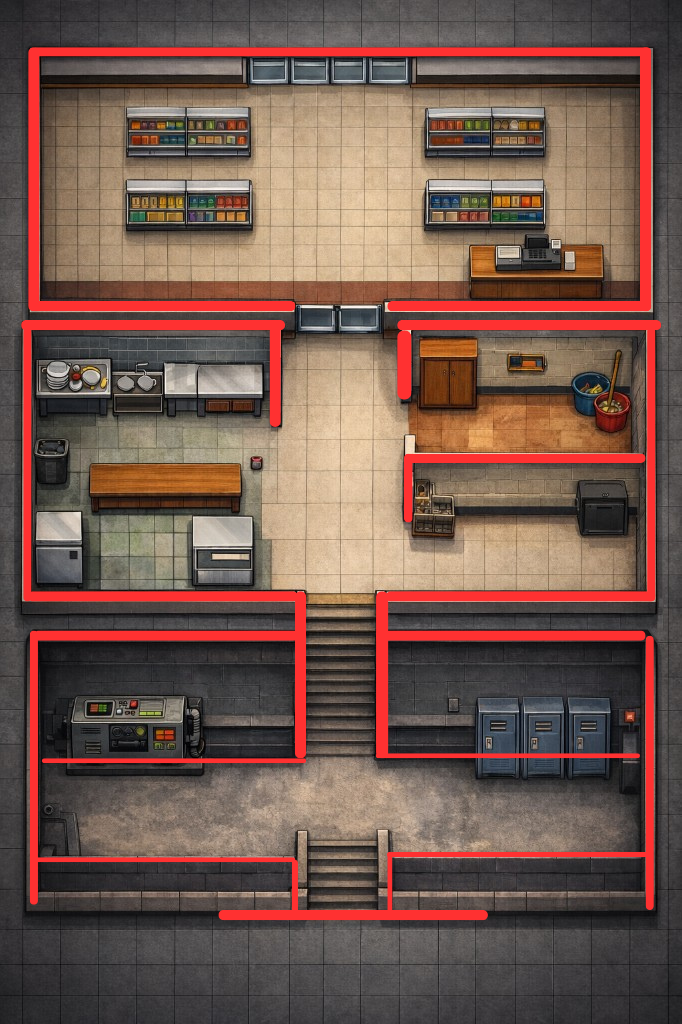
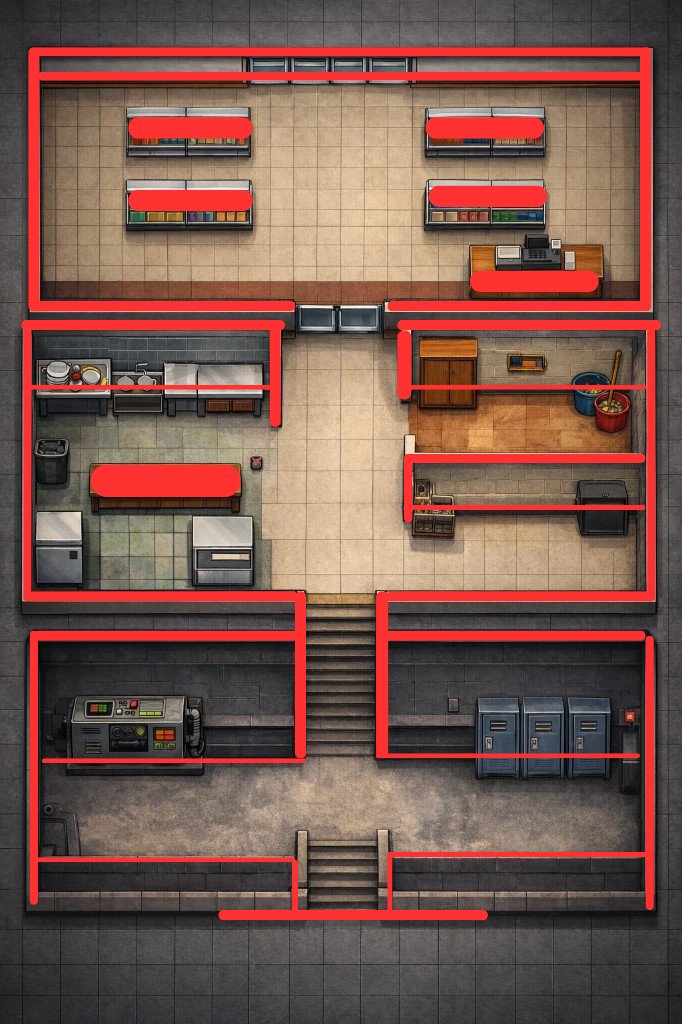
Align task interactions with mask-driven zones and improve map readability.
Add color-based task mask loading, centralize and enlarge interactable labels, increase player speed, and update collision/task mask assets for in-game alignment.

Made-with: Cursor

diff --git a/src/map.c b/src/map.c
@@ -30,6 +30,12 @@
 
 /* Design-time coordinates × WORLD_SCALE — keeps geometry in sync with WORLD_WIDTH/HEIGHT. */
 #define M(x) ((float)(x) * WORLD_SCALE)
+/* Reference image pixels (Badge_Clock_out...png / map_blueprint dimensions). */
+#define REF_IMG_W 682.0f
+#define REF_IMG_H 1024.0f
+#define RX(x) (((float)(x) / REF_IMG_W) * WORLD_WIDTH)
+#define RY(y) (((float)(y) / REF_IMG_H) * WORLD_HEIGHT)
+#define RR(x, y, w, h) (Rectangle){ RX(x), RY(y), RX(x + (w)) - RX(x), RY(y + (h)) - RY(y) }
 
 /* Static obstacle rectangles — shared by BuildGeometry (walls) and procedural drawing. */
 static const Rectangle OB_SHELF_NW   = { M(200), M(200), M(350), M(280) };
@@ -63,9 +69,150 @@ static const Rectangle OB_FLOOR_RIGHT_BACK_OUTLINE = { M(1400), M(1200), M(800),
 static void BuildGeometry(Map *map);
 static void BuildInteractables(Map *map);
 static void BuildNpcs(Map *map);
+static void Map_LoadTaskZonesFromMask(Map *map);
 
 static bool IsRedMaskColor(Color c) {
     return (c.r > 200 && c.g < 90 && c.b < 90);
+}
+
+static bool IsNearColor(Color c, Color t, int tol) {
+    return abs((int)c.r - (int)t.r) <= tol
+        && abs((int)c.g - (int)t.g) <= tol
+        && abs((int)c.b - (int)t.b) <= tol;
+}
+
+static Interactable *FindInteractableByType(Map *map, InteractableType type) {
+    for (int i = 0; i < map->interactableCount; i++) {
+        if (map->interactables[i].type == type) return &map->interactables[i];
+    }
+    return NULL;
+}
+
+static bool FindMaskRegion(Image *img, Color target, Rectangle *outPx) {
+    const int tol = 12;
+    int minX = img->width, minY = img->height;
+    int maxX = -1, maxY = -1;
+
+    for (int y = 0; y < img->height; y++) {
+        for (int x = 0; x < img->width; x++) {
+            Color c = GetImageColor(*img, x, y);
+            if (!IsNearColor(c, target, tol)) continue;
+            if (x < minX) minX = x;
+            if (y < minY) minY = y;
+            if (x > maxX) maxX = x;
+            if (y > maxY) maxY = y;
+        }
+    }
+
+    if (maxX < minX || maxY < minY) return false;
+    *outPx = (Rectangle){ (float)minX, (float)minY, (float)(maxX - minX + 1), (float)(maxY - minY + 1) };
+    return true;
+}
+
+static Rectangle PxRectToWorld(Rectangle rPx, int imgW, int imgH) {
+    float x = (rPx.x / (float)imgW) * WORLD_WIDTH;
+    float y = (rPx.y / (float)imgH) * WORLD_HEIGHT;
+    float w = (rPx.width / (float)imgW) * WORLD_WIDTH;
+    float h = (rPx.height / (float)imgH) * WORLD_HEIGHT;
+    return (Rectangle){ x, y, w, h };
+}
+
+static Rectangle BuildDefaultTriggerFromBounds(Rectangle b) {
+    float padX = b.width * 0.12f;
+    float h = fmaxf(14.0f, b.height * 0.5f);
+    return (Rectangle){ b.x - padX, b.y + b.height, b.width + padX * 2.0f, h };
+}
+
+static void Map_LoadTaskZonesFromMask(Map *map) {
+    const char *path = "assets/task_mask.png";
+    if (!FileExists(path)) return;
+
+    Image img = LoadImage(path);
+    if (!img.data || img.width <= 0 || img.height <= 0) {
+        if (img.data) UnloadImage(img);
+        return;
+    }
+
+    Rectangle px = {0};
+
+    // Blue maps to Badge + Clock Out + Radio (split into three stacked bands).
+    if (FindMaskRegion(&img, (Color){ 0, 0, 255, 255 }, &px)) {
+        Interactable *badge = FindInteractableByType(map, INTERACT_BADGE);
+        Interactable *clockOut = FindInteractableByType(map, INTERACT_CLOCK_OUT);
+        Interactable *radio = FindInteractableByType(map, INTERACT_RADIO);
+        float bandH = px.height / 3.0f;
+        Rectangle rBadge = { px.x, px.y, px.width, bandH };
+        Rectangle rClock = { px.x, px.y + bandH, px.width, bandH };
+        Rectangle rRadio = { px.x, px.y + bandH * 2.0f, px.width, px.height - bandH * 2.0f };
+        if (badge) {
+            badge->bounds = PxRectToWorld(rBadge, img.width, img.height);
+            badge->triggerZone = BuildDefaultTriggerFromBounds(badge->bounds);
+        }
+        if (clockOut) {
+            clockOut->bounds = PxRectToWorld(rClock, img.width, img.height);
+            clockOut->triggerZone = BuildDefaultTriggerFromBounds(clockOut->bounds);
+        }
+        if (radio) {
+            radio->bounds = PxRectToWorld(rRadio, img.width, img.height);
+            radio->triggerZone = BuildDefaultTriggerFromBounds(radio->bounds);
+        }
+    }
+
+    // Green = Sink
+    if (FindMaskRegion(&img, (Color){ 0, 255, 0, 255 }, &px)) {
+        Interactable *it = FindInteractableByType(map, INTERACT_SINK);
+        if (it) {
+            it->bounds = PxRectToWorld(px, img.width, img.height);
+            it->triggerZone = BuildDefaultTriggerFromBounds(it->bounds);
+        }
+    }
+
+    // Yellow = Bin
+    if (FindMaskRegion(&img, (Color){ 255, 255, 0, 255 }, &px)) {
+        Interactable *it = FindInteractableByType(map, INTERACT_GARBAGE);
+        if (it) {
+            it->bounds = PxRectToWorld(px, img.width, img.height);
+            it->triggerZone = BuildDefaultTriggerFromBounds(it->bounds);
+        }
+    }
+
+    // Purple = Freezer
+    if (FindMaskRegion(&img, (Color){ 128, 0, 255, 255 }, &px)) {
+        Interactable *it = FindInteractableByType(map, INTERACT_FREEZER_DOOR);
+        if (it) {
+            it->bounds = PxRectToWorld(px, img.width, img.height);
+            it->triggerZone = BuildDefaultTriggerFromBounds(it->bounds);
+        }
+    }
+
+    // Orange = Mop
+    if (FindMaskRegion(&img, (Color){ 255, 128, 0, 255 }, &px)) {
+        Interactable *it = FindInteractableByType(map, INTERACT_MOP);
+        if (it) {
+            it->bounds = PxRectToWorld(px, img.width, img.height);
+            it->triggerZone = BuildDefaultTriggerFromBounds(it->bounds);
+        }
+    }
+
+    // Pink = Generator
+    if (FindMaskRegion(&img, (Color){ 255, 0, 255, 255 }, &px)) {
+        Interactable *it = FindInteractableByType(map, INTERACT_GENERATOR);
+        if (it) {
+            it->bounds = PxRectToWorld(px, img.width, img.height);
+            it->triggerZone = BuildDefaultTriggerFromBounds(it->bounds);
+        }
+    }
+
+    // Red = Lockers (single combined task zone)
+    if (FindMaskRegion(&img, (Color){ 255, 0, 0, 255 }, &px)) {
+        Interactable *it = FindInteractableByType(map, INTERACT_LOCKER_1);
+        if (it) {
+            it->bounds = PxRectToWorld(px, img.width, img.height);
+            it->triggerZone = BuildDefaultTriggerFromBounds(it->bounds);
+        }
+    }
+
+    UnloadImage(img);
 }
 
 bool Map_RectBlocked(const Map *map, Rectangle r) {
@@ -177,6 +324,7 @@ Map *Map_Create(int screenWidth, int screenHeight) {
     BuildGeometry(m);
     BuildInteractables(m);
     BuildNpcs(m);
+    Map_LoadTaskZonesFromMask(m);
     Map_LoadCollisionMask(m);
 
     if (FileExists("assets/map_blueprint.png")) {
@@ -228,100 +376,74 @@ static void BuildGeometry(Map *map) {
     // Region bounds
     map->kitchenBounds   = (Rectangle){ 0, M(1200), M(1100), M(1000) };
     map->hallwayBounds   = (Rectangle){ M(1100), M(1200), M(300), M(1000) };
-    map->cashierBounds   = (Rectangle){ M(2200), 0, M(600), M(450) };
+    map->cashierBounds   = RR(536, 0, 146, 121);
     map->freezerBounds   = (Rectangle){ M(50), M(2050), M(550), M(130) };
     map->basementBounds  = (Rectangle){ 0, M(2200), W, M(1600) };
 }
 
 // Code created by wu deguang - each interactable has bounds (object) and triggerZone (where to stand to press E)
 static void BuildInteractables(Map *map) {
-    // Badge reader (kitchen, near hallway entrance) - clock in / clock out
+    // Placement aligned to task-reference image, with larger practical interaction zones.
     map->interactables[map->interactableCount++] = (Interactable){
-        (Rectangle){ M(950), M(1280), M(100), M(60) },
-        (Rectangle){ M(850), M(1300), M(110), M(80) },
+        RR(611, 278, 40, 20),
+        RR(584, 264, 98, 54),
         INTERACT_BADGE,
         "Badge"
     };
     map->interactables[map->interactableCount++] = (Interactable){
-        (Rectangle){ M(950), M(1340), M(100), M(45) },
-        (Rectangle){ M(850), M(1360), M(110), M(70) },
+        RR(611, 300, 40, 20),
+        RR(584, 286, 98, 54),
         INTERACT_CLOCK_OUT,
         "Clock Out"
     };
     // Sink (kitchen top-left)
     map->interactables[map->interactableCount++] = (Interactable){
-        (Rectangle){ M(80), M(1210), M(220), M(140) },
-        (Rectangle){ M(80), M(1360), M(240), M(70) },
+        RR(10, 314, 96, 60),
+        RR(6, 312, 108, 66),
         INTERACT_SINK,
         "Sink"
     };
     // Garbage (kitchen left)
     map->interactables[map->interactableCount++] = (Interactable){
-        (Rectangle){ M(120), M(1950), M(100), M(130) },
-        (Rectangle){ M(100), M(2090), M(140), M(55) },
+        RR(4, 505, 76, 84),
+        RR(2, 500, 84, 92),
         INTERACT_GARBAGE,
         "Bin"
     };
-    // Mop (janitor far right)
+    // Mop bucket on the right side of janitor room
     map->interactables[map->interactableCount++] = (Interactable){
-        (Rectangle){ M(2050), M(1580), M(130), M(60) },
-        (Rectangle){ M(1920), M(1590), M(130), M(80) },
+        RR(558, 368, 116, 128),
+        RR(552, 362, 124, 136),
         INTERACT_MOP,
         "Mop"
     };
-    // Radio on cashier counter (main store top-right) - Day 2 turn on radio; customers use cashierBounds in game logic
+    // Radio on cashier counter (main store top-right)
     map->interactables[map->interactableCount++] = (Interactable){
-        (Rectangle){ M(2580), M(120), M(80), M(60) },
-        (Rectangle){ M(2560), M(200), M(120), M(100) },
+        RR(611, 322, 40, 20),
+        RR(584, 308, 98, 54),
         INTERACT_RADIO,
         "Radio"
     };
     // Freezer (kitchen bottom-left, expired meat)
     map->interactables[map->interactableCount++] = (Interactable){
-        (Rectangle){ M(50), M(2050), M(230), M(130) },
-        (Rectangle){ M(50), M(2190), M(230), M(65) },
+        RR(0, 535, 90, 96),
+        RR(0, 532, 96, 102),
         INTERACT_FREEZER_DOOR,
         "Freezer"
     };
-    // Basement stairs down (hallway bottom)
+    // Generator machine (basement left)
     map->interactables[map->interactableCount++] = (Interactable){
-        (Rectangle){ M(1100), M(2120), M(300), M(80) },
-        (Rectangle){ M(1150), M(2080), M(200), M(55) },
-        INTERACT_BASEMENT_STAIRS,
-        "Stairs"
-    };
-    // Basement stairs up
-    map->interactables[map->interactableCount++] = (Interactable){
-        (Rectangle){ M(1100), M(2200), M(300), M(180) },
-        (Rectangle){ M(1150), M(2390), M(200), M(65) },
-        INTERACT_BASEMENT_STAIRS_UP,
-        "Stairs Up"
-    };
-    // Generator (basement left)
-    map->interactables[map->interactableCount++] = (Interactable){
-        (Rectangle){ M(200), M(2350), M(450), M(500) },
-        (Rectangle){ M(200), M(2860), M(450), M(85) },
+        RR(20, 700, 210, 126),
+        RR(16, 694, 218, 134),
         INTERACT_GENERATOR,
         "Generator"
     };
-    // Lockers (basement right)
+    // Lockers (basement right) as one combined interaction.
     map->interactables[map->interactableCount++] = (Interactable){
-        (Rectangle){ M(2080), M(2500), M(140), M(620) },
-        (Rectangle){ M(2080), M(3130), M(140), M(65) },
+        RR(490, 694, 148, 154),
+        RR(486, 688, 156, 162),
         INTERACT_LOCKER_1,
-        "Locker1"
-    };
-    map->interactables[map->interactableCount++] = (Interactable){
-        (Rectangle){ M(2220), M(2500), M(140), M(620) },
-        (Rectangle){ M(2220), M(3130), M(140), M(65) },
-        INTERACT_LOCKER_2,
-        "Locker2"
-    };
-    map->interactables[map->interactableCount++] = (Interactable){
-        (Rectangle){ M(2360), M(2500), M(140), M(620) },
-        (Rectangle){ M(2360), M(3130), M(140), M(65) },
-        INTERACT_LOCKER_3,
-        "Locker3"
+        "Lockers"
     };
 }
 
@@ -405,10 +527,15 @@ void Map_DrawBackground(const Map *map, float playerY) {
     }
 
     // Interactable labels (behind player only when procedural; when image used, draw all)
+    const int labelFontSize = 26;
     for (int i = 0; i < map->interactableCount; i++) {
         const Interactable *in = &map->interactables[i];
-        if (in->label && rect_center_y(in->bounds) < playerY)
-            DrawText(in->label, (int)(in->bounds.x + 4), (int)(in->bounds.y - 14), 12, (Color){ 200, 195, 220, 255 });
+        if (in->label && rect_center_y(in->bounds) < playerY) {
+            int tw = MeasureText(in->label, labelFontSize);
+            int tx = (int)(in->bounds.x + in->bounds.width * 0.5f - (float)tw * 0.5f);
+            int ty = (int)(in->bounds.y - (float)labelFontSize - 8.0f);
+            DrawText(in->label, tx, ty, labelFontSize, (Color){ 200, 195, 220, 255 });
+        }
     }
     for (int i = 0; i < map->npcCount; i++) {
         const NpcSpot *n = &map->npcs[i];
@@ -460,10 +587,15 @@ void Map_DrawForeground(const Map *map, float playerY) {
         if (rect_center_y(OB_STAIRS_UP) >= playerY) DrawRectangleRec(OB_STAIRS_UP, (Color){ 35, 32, 42, 255 });
     }
 
+    const int labelFontSize = 26;
     for (int i = 0; i < map->interactableCount; i++) {
         const Interactable *in = &map->interactables[i];
-        if (in->label && rect_center_y(in->bounds) >= playerY)
-            DrawText(in->label, (int)(in->bounds.x + 4), (int)(in->bounds.y - 14), 12, (Color){ 200, 195, 220, 255 });
+        if (in->label && rect_center_y(in->bounds) >= playerY) {
+            int tw = MeasureText(in->label, labelFontSize);
+            int tx = (int)(in->bounds.x + in->bounds.width * 0.5f - (float)tw * 0.5f);
+            int ty = (int)(in->bounds.y - (float)labelFontSize - 8.0f);
+            DrawText(in->label, tx, ty, labelFontSize, (Color){ 200, 195, 220, 255 });
+        }
     }
     for (int i = 0; i < map->npcCount; i++) {
         const NpcSpot *n = &map->npcs[i];

diff --git a/src/player.c b/src/player.c
@@ -32,7 +32,7 @@ Player *Player_Create(void) {
     /* Starting position (overwritten when a real day starts). */
     p->position = (Vector2){ 400.0f, 400.0f };
     /* How many pixels per second we move when a key is held (before dt scaling). */
-    p->speed = 140.0f;
+    p->speed = 200.0f;
     p->color = (Color){ 240, 240, 255, 255 };
     return p;
 }

diff --git a/README.md b/README.md
@@ -50,6 +50,20 @@
  Place a PNG at **`assets/collision_mask.png`** (same aspect ratio as the playable map, i.e. **2800×3800** design space). **Red** pixels (`R > 200`, `G` and `B` low) become **blocked** collision; everything else is walkable. The image is downsampled (longest side at most 1024px) when building the internal grid. If the file is missing, there is **no** solid collision (you can walk through everything).
  
  Optional: **`assets/map_blueprint.png`** is drawn as the background when present; it does not define collision—only the red mask does.
+
+### Task mask (optional, for pixel-perfect interactable placement)
+
+If present, **`assets/task_mask.png`** overrides interactable positions from a color-coded mask mapped to world space (same image alignment concept as collision). Supported colors:
+
+- Blue `#0000FF`: Badge + Clock Out + Radio (split into 3 stacked bands)
+- Green `#00FF00`: Sink
+- Yellow `#FFFF00`: Bin
+- Purple `#8000FF`: Freezer
+- Orange `#FF8000`: Mop
+- Pink `#FF00FF`: Generator
+- Red `#FF0000`: Lockers (single combined locker interaction)
+
+If `assets/task_mask.png` is missing, the game uses the built-in default task zones.
  
  ---
  
